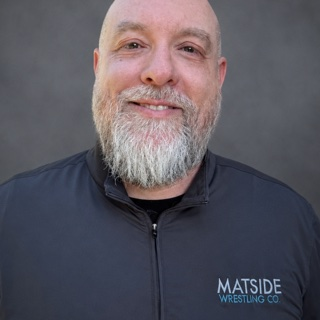
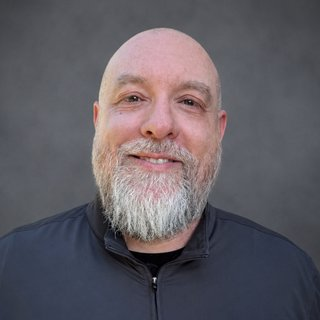
fix(leadership): top-anchor headshot crops; fix Tournament typo
Previous crop was geometric center of the 1086x1448 source, which cut
off the tops of both heads since the faces sit in the upper portion of
the frame. Switched to a top-anchored crop (y=0 to y=1086) via PIL --
the macOS sips --cropOffset flag was silently ignored, so this needed
a different tool.

Also fixes 'Tourament' -> 'Tournament' on the Jan 2, 2027 MAC HS & JH
row added in 11e4406.

diff --git a/index.html b/index.html
@@ -331,7 +331,7 @@
             <tbody>
               <tr><td class="date">Dec 5, 2026</td><td class="event">Shaler Area Junior High Titan Duals</td><td class="loc">Shaler Area HS</td><td class="bracket"><span class="tba">TBA</span></td></tr>
               <tr><td class="date">Dec 19, 2026</td><td class="event">Pine-Richland Girls Ram Slam</td><td class="loc">Pine-Richland HS</td><td class="bracket"><span class="tba">TBA</span></td></tr>
-              <tr><td class="date">Jan 2, 2027</td><td class="event">MAC HS & JH Tourament</td><td class="loc">Moon Area HS</td><td class="bracket"><span class="tba">TBA</span></td></tr>
+              <tr><td class="date">Jan 2, 2027</td><td class="event">MAC HS & JH Tournament</td><td class="loc">Moon Area HS</td><td class="bracket"><span class="tba">TBA</span></td></tr>
               <tr><td class="date">Jan 8, 2027</td><td class="event">ACC JH Tournament</td><td class="loc">Shaler Area HS</td><td class="bracket"><span class="tba">TBA</span></td></tr>
               <tr><td class="date">Jan 16, 2027</td><td class="event">Sharpsville Girl's Tournament</td><td class="loc">Sharpsville HS / MS</td><td class="bracket"><span class="tba">TBA</span></td></tr>
             </tbody>
